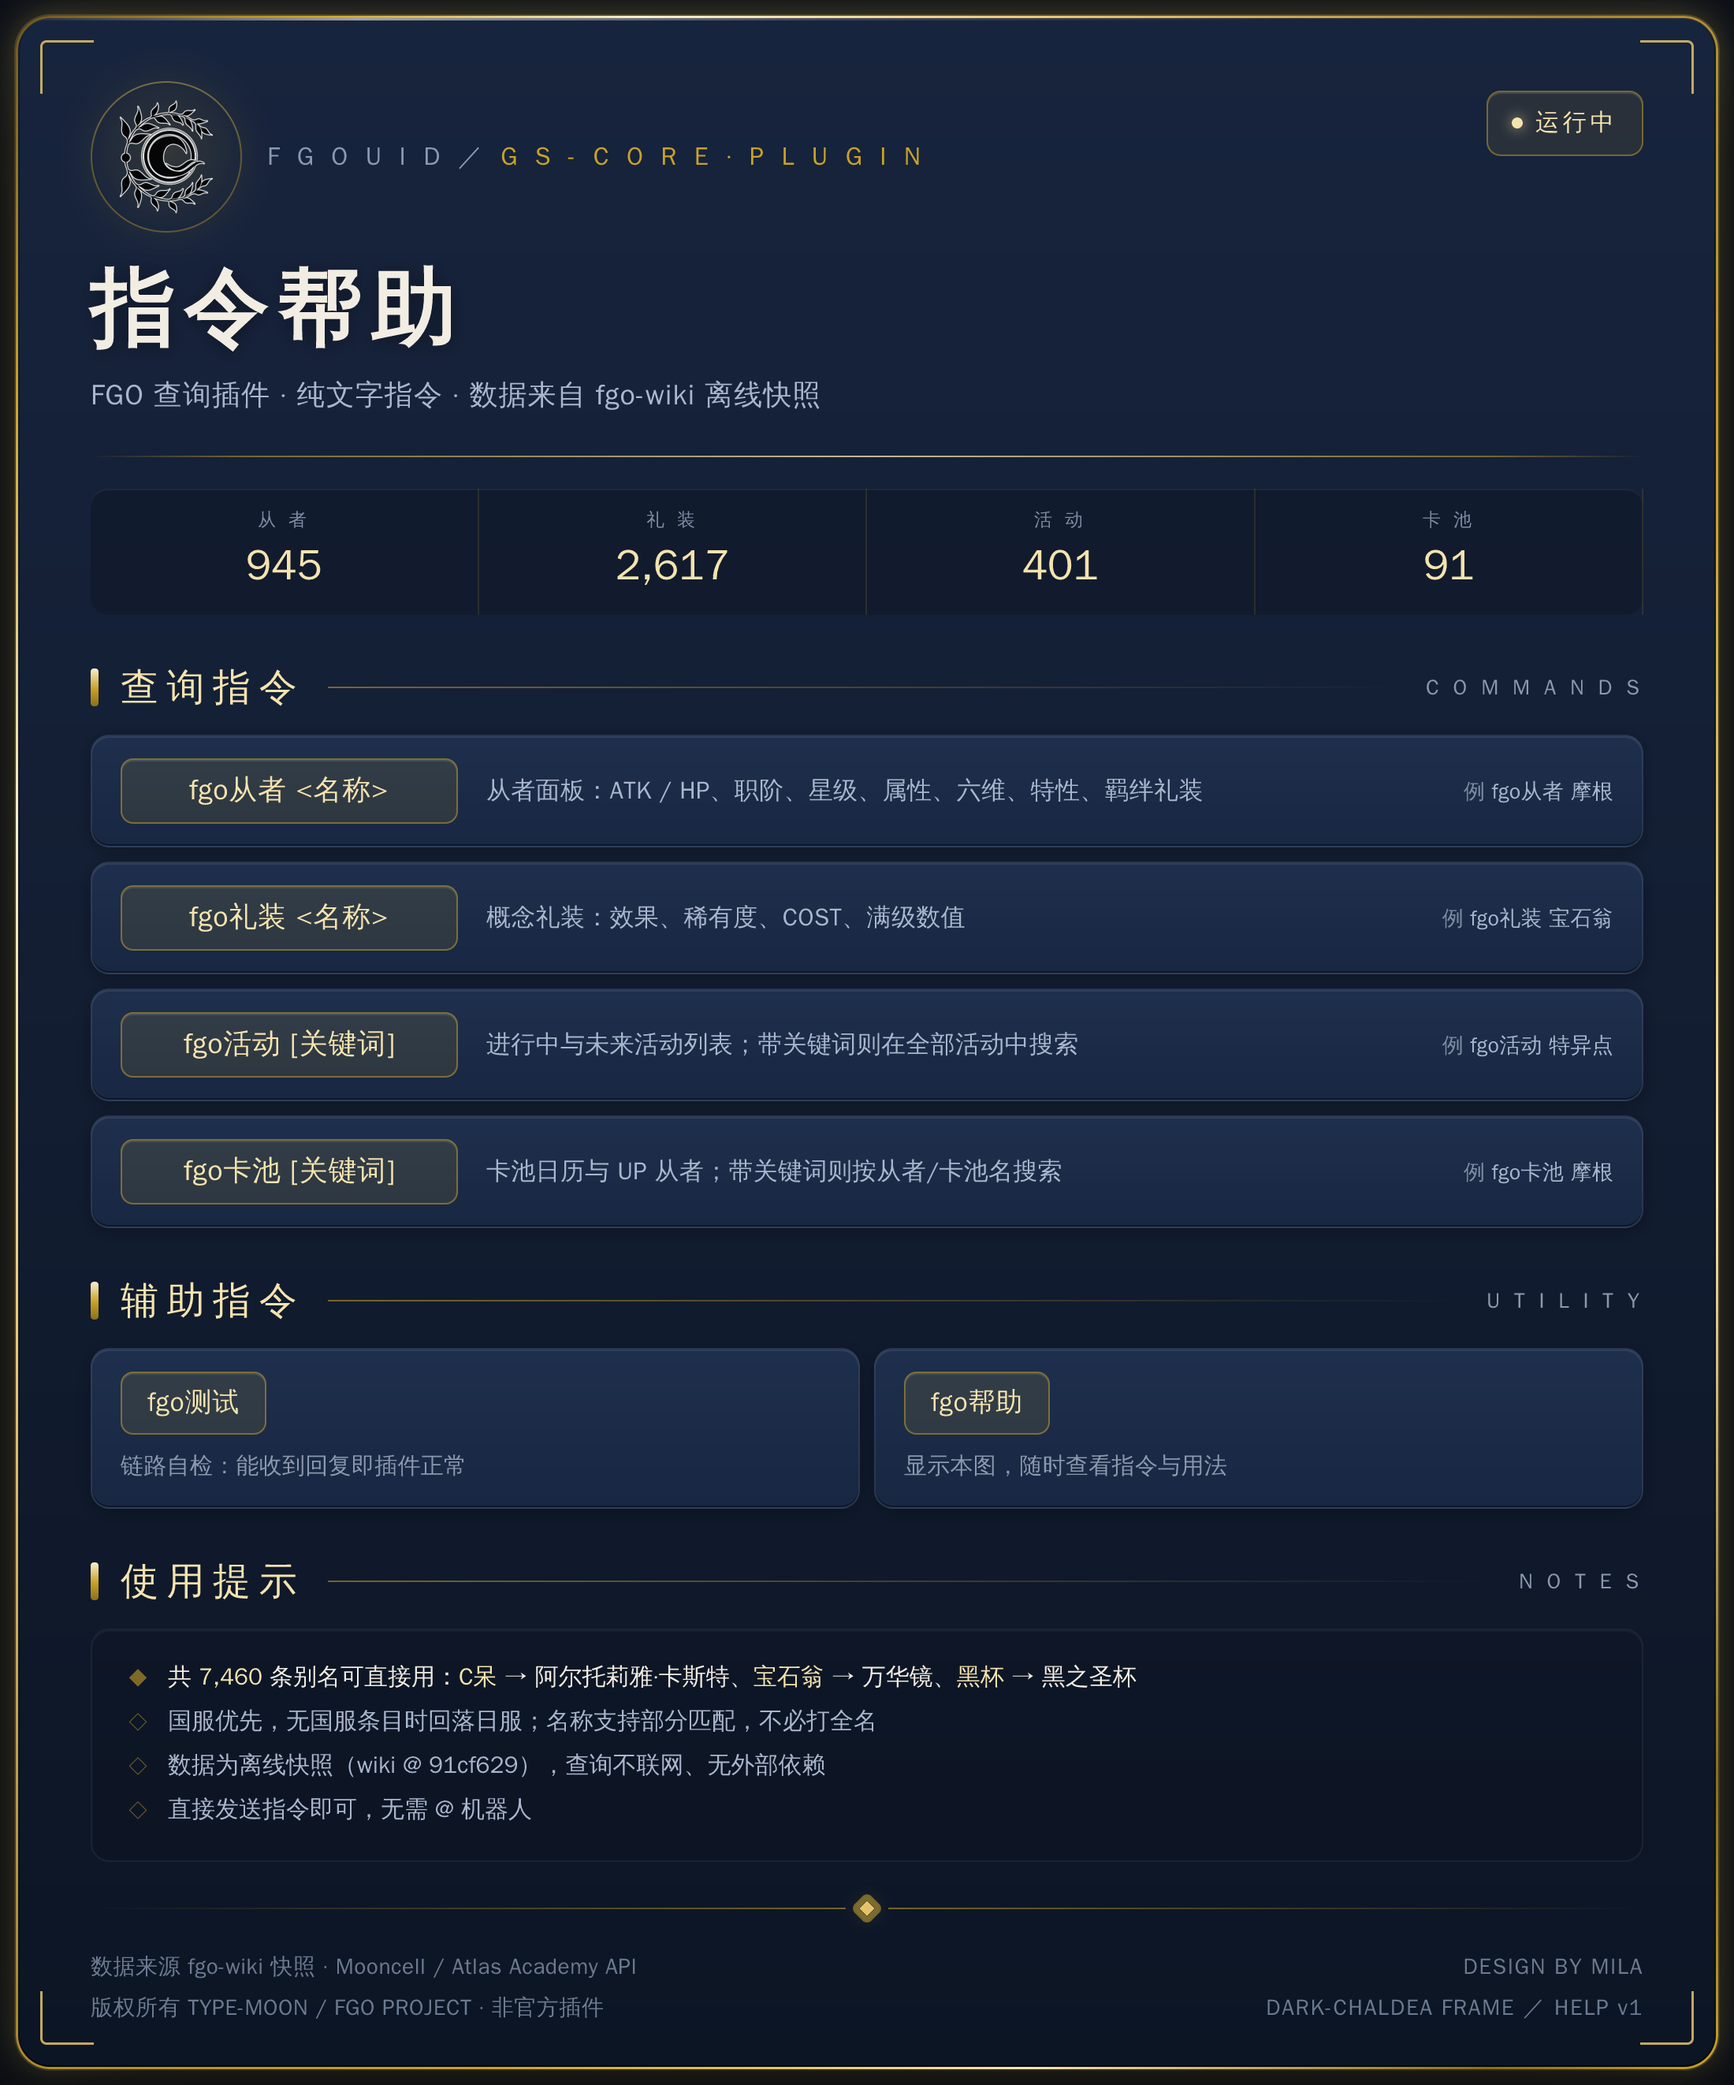
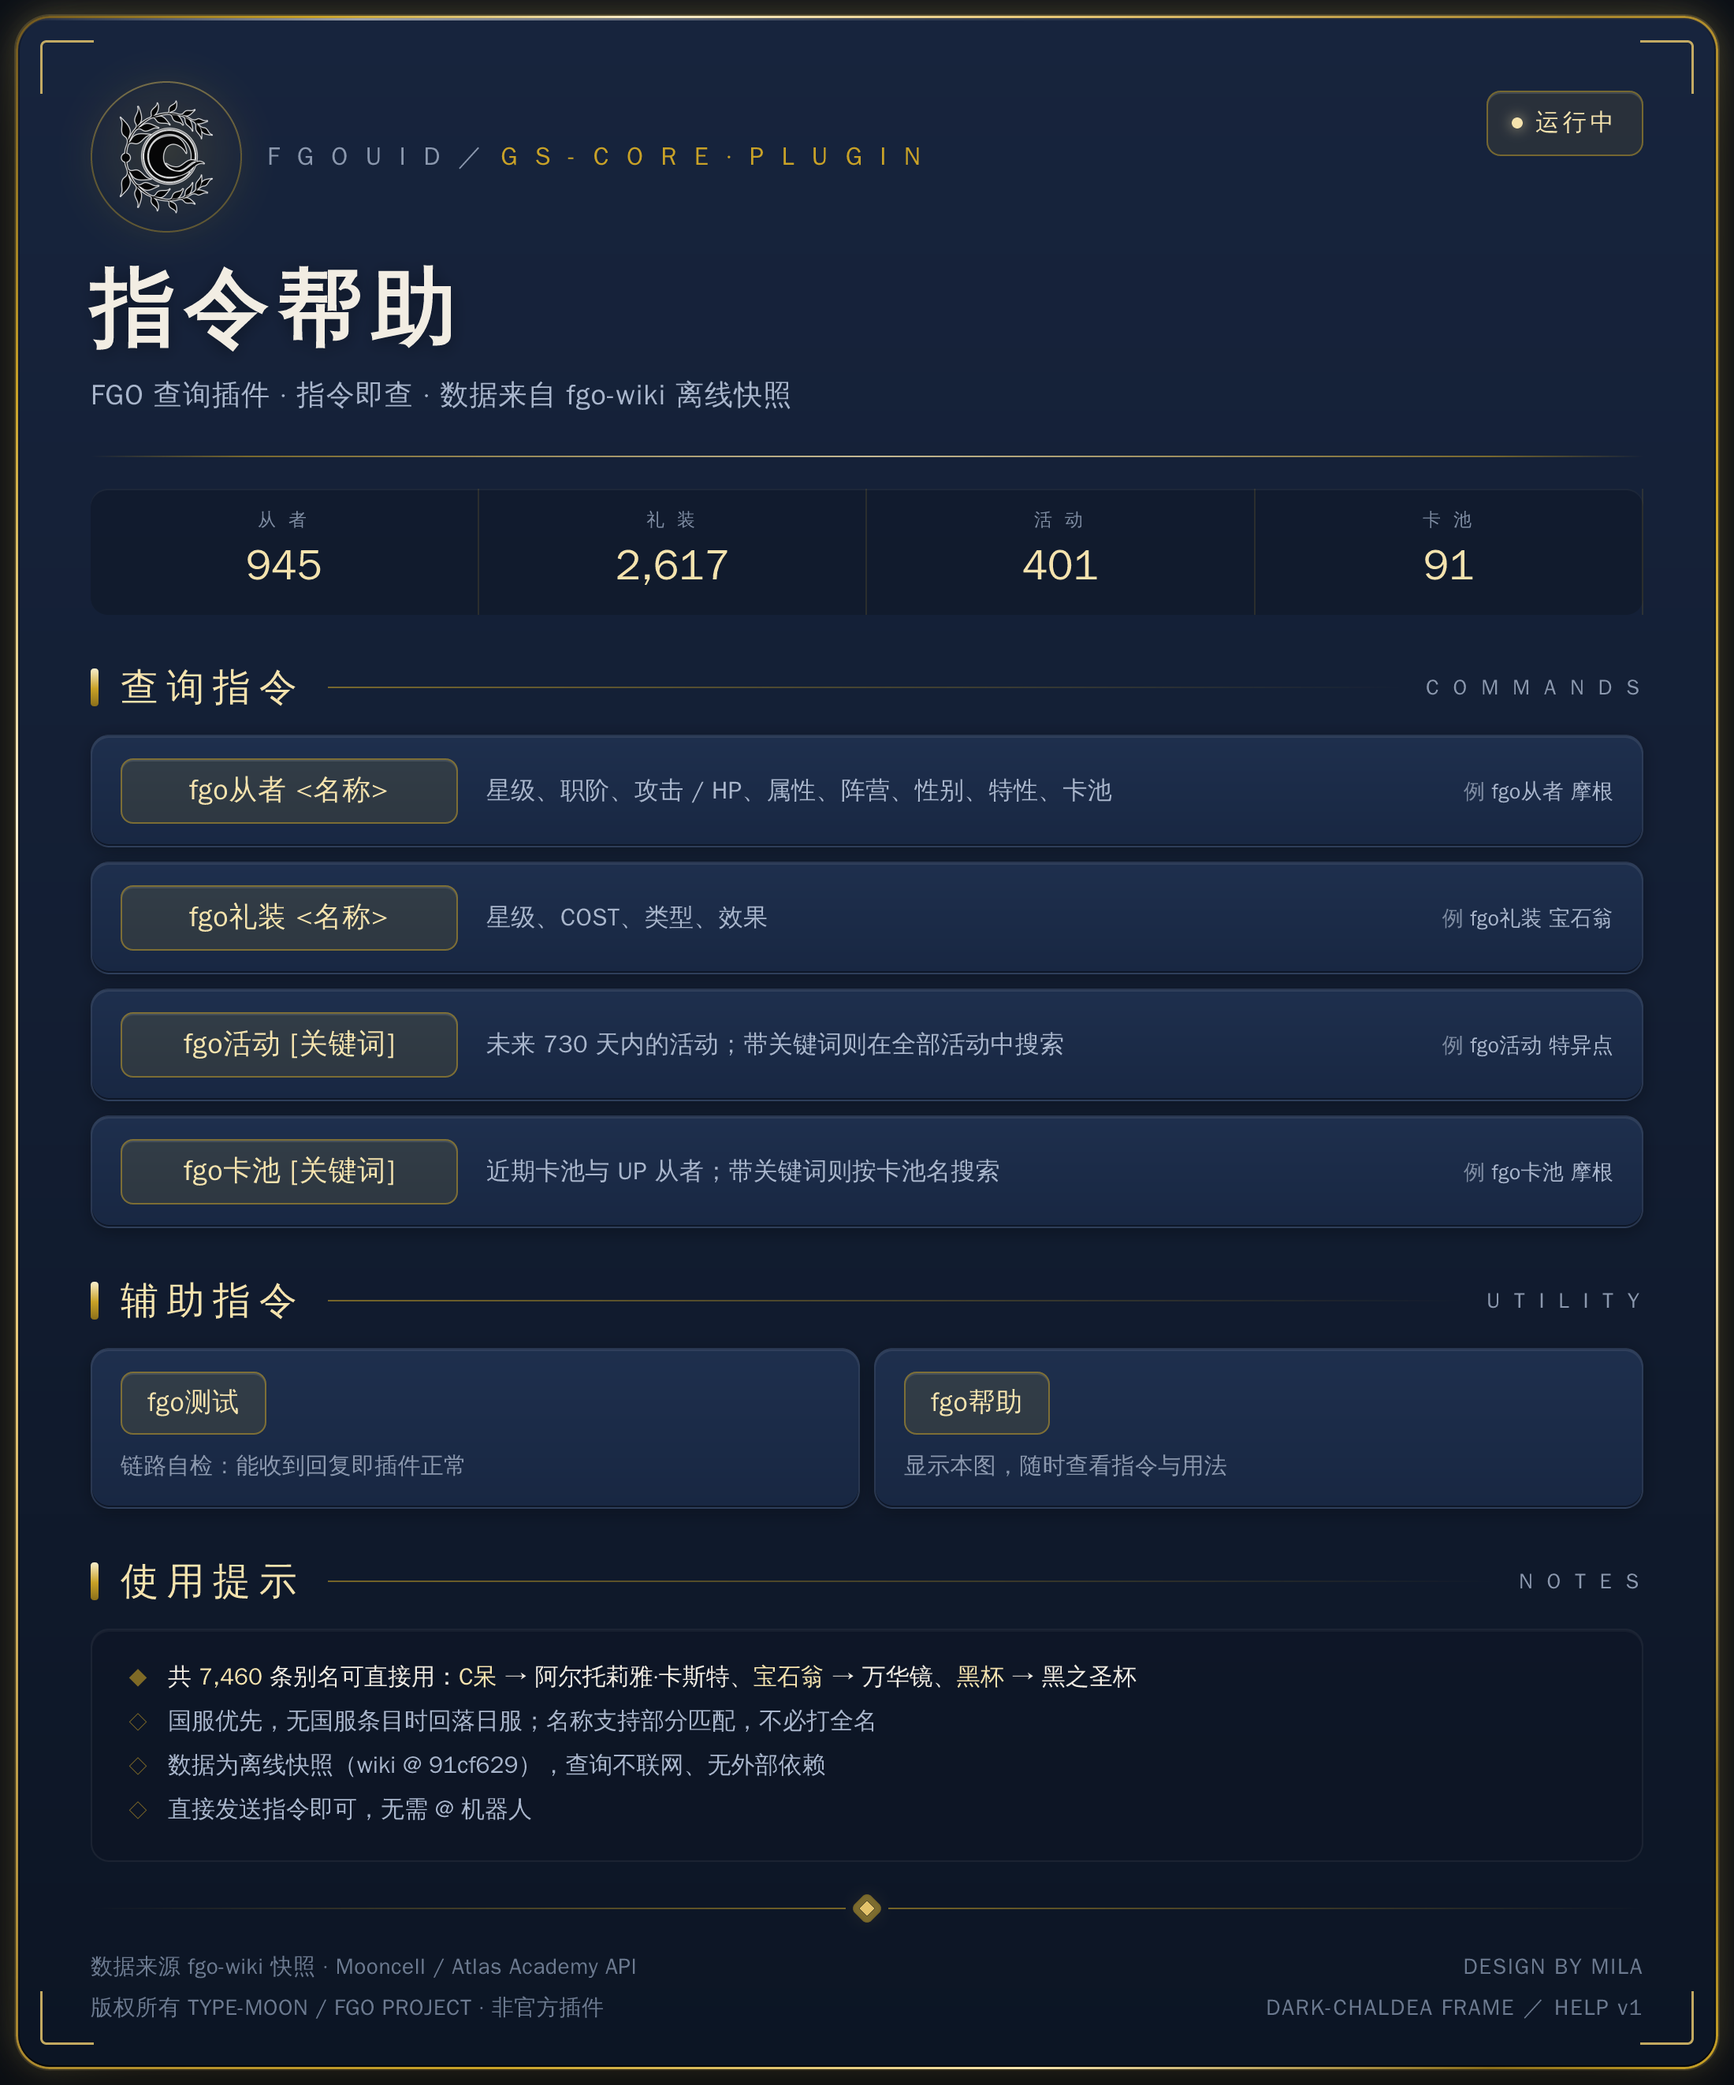
fix(help): 指令说明与实际输出对齐（去掉六维/羁绊礼装/满级数值），副标题去掉“纯文字”

diff --git a/templates/help_card.html b/templates/help_card.html
@@ -137,7 +137,7 @@ h1{font-size:54px;line-height:1.20;color:var(--text-1);margin-top:16px;letter-sp
       <div class="eyebrow">F G O U I D&nbsp;&nbsp;／&nbsp;&nbsp;<b>G S - C O R E&nbsp;&nbsp;·&nbsp;&nbsp;P L U G I N</b></div>
     </div>
     <h1>指令帮助</h1>
-    <div class="sub">FGO 查询插件　·　纯文字指令　·　数据来自 fgo-wiki 离线快照</div>
+    <div class="sub">FGO 查询插件　·　指令即查　·　数据来自 fgo-wiki 离线快照</div>
   </div>
   <div class="pill"><i></i>运行中</div>
 </header>
@@ -155,22 +155,22 @@ h1{font-size:54px;line-height:1.20;color:var(--text-1);margin-top:16px;letter-sp
 <div class="cmds">
   <div class="row">
     <div class="k">fgo从者 &lt;名称&gt;</div>
-    <div class="d">从者面板：ATK / HP、职阶、星级、属性、六维、特性、羁绊礼装</div>
+    <div class="d">星级、职阶、攻击 / HP、属性、阵营、性别、特性、卡池</div>
     <div class="e">例　<b>fgo从者 摩根</b></div>
   </div>
   <div class="row">
     <div class="k">fgo礼装 &lt;名称&gt;</div>
-    <div class="d">概念礼装：效果、稀有度、COST、满级数值</div>
+    <div class="d">星级、COST、类型、效果</div>
     <div class="e">例　<b>fgo礼装 宝石翁</b></div>
   </div>
   <div class="row">
     <div class="k">fgo活动 [关键词]</div>
-    <div class="d">进行中与未来活动列表；带关键词则在全部活动中搜索</div>
+    <div class="d">未来 730 天内的活动；带关键词则在全部活动中搜索</div>
     <div class="e">例　<b>fgo活动 特异点</b></div>
   </div>
   <div class="row">
     <div class="k">fgo卡池 [关键词]</div>
-    <div class="d">卡池日历与 UP 从者；带关键词则按从者/卡池名搜索</div>
+    <div class="d">近期卡池与 UP 从者；带关键词则按卡池名搜索</div>
     <div class="e">例　<b>fgo卡池 摩根</b></div>
   </div>
 </div>
